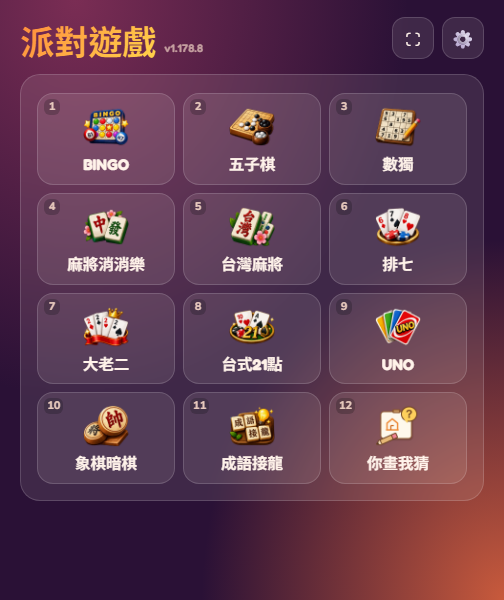
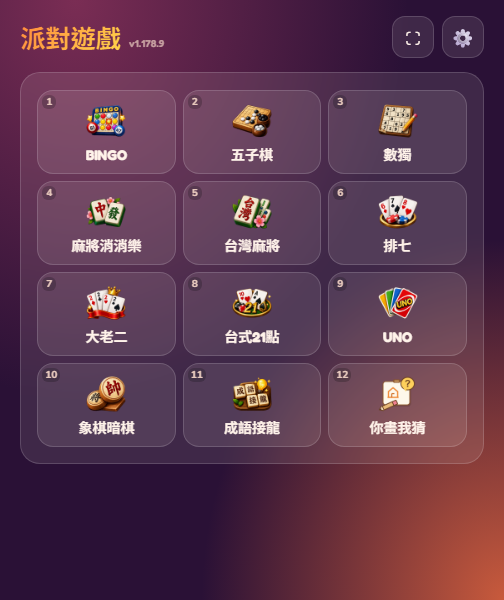
docs(readme): 補上十二款遊戲的實機畫面(單機開局後截)
· 截圖牆取代圖示牆:一格一張真實遊戲畫面 + 玩法對照表
· 首頁 / 設定截圖重截到同一版號,避免並排時版號不一

diff --git a/README.md b/README.md
@@ -18,22 +18,26 @@
 
 <table>
   <tr>
-    <td align="center" width="110"><img src="img/bc-icon.png" width="72" alt="BINGO"><br><b>BINGO</b></td>
-    <td align="center" width="110"><img src="img/gk-icon.png" width="72" alt="五子棋"><br><b>五子棋</b></td>
-    <td align="center" width="110"><img src="img/sk-icon.png" width="72" alt="數獨"><br><b>數獨</b></td>
-    <td align="center" width="110"><img src="img/mk-icon.png" width="72" alt="麻將消消樂"><br><b>麻將消消樂</b></td>
-    <td align="center" width="110"><img src="img/m16-icon.png" width="72" alt="台灣麻將"><br><b>台灣麻將</b></td>
-    <td align="center" width="110"><img src="img/sv-icon.png" width="72" alt="排七"><br><b>排七</b></td>
+    <td align="center" width="25%"><b>🎲 BINGO</b><br><img src="screenshots/bingo.png" width="200" alt="BINGO 盤面:號碼劃記與連線"></td>
+    <td align="center" width="25%"><b>⚫ 五子棋</b><br><img src="screenshots/gomoku.png" width="200" alt="五子棋 19×19 棋盤"></td>
+    <td align="center" width="25%"><b>🔢 數獨</b><br><img src="screenshots/sudoku.png" width="200" alt="數獨 9×9 盤面與數字鍵盤"></td>
+    <td align="center" width="25%"><b>🀄 麻將消消樂</b><br><img src="screenshots/mahjong.png" width="200" alt="麻將消消樂:堆疊的牌陣"></td>
   </tr>
   <tr>
-    <td align="center"><img src="img/b2-icon.png" width="72" alt="大老二"><br><b>大老二</b></td>
-    <td align="center"><img src="img/bj-icon.png" width="72" alt="台式21點"><br><b>台式21點</b></td>
-    <td align="center"><img src="img/un-icon.png" width="72" alt="UNO"><br><b>UNO</b></td>
-    <td align="center"><img src="img/dc-icon.png" width="72" alt="象棋暗棋"><br><b>象棋暗棋</b></td>
-    <td align="center"><img src="img/cy-icon.png" width="72" alt="成語接龍"><br><b>成語接龍</b></td>
-    <td align="center"><img src="img/dw-icon.png" width="72" alt="你畫我猜"><br><b>你畫我猜</b></td>
+    <td align="center"><b>🀄 台灣麻將</b><br><img src="screenshots/mahjong16.png" width="200" alt="台灣 16 張麻將:手牌與三家對手"></td>
+    <td align="center"><b>♠ 排七</b><br><img src="screenshots/sevens.png" width="200" alt="排七:四門花色往兩邊接牌"></td>
+    <td align="center"><b>♥ 大老二</b><br><img src="screenshots/big2.png" width="200" alt="大老二:牌桌上的葫蘆與手牌"></td>
+    <td align="center"><b>♦ 台式21點</b><br><img src="screenshots/blackjack.png" width="200" alt="台式21點:要牌 / 停 / 抓人"></td>
+  </tr>
+  <tr>
+    <td align="center"><b>🌈 UNO</b><br><img src="screenshots/uno.png" width="200" alt="UNO:四色手牌與功能牌"></td>
+    <td align="center"><b>🔴 象棋暗棋</b><br><img src="screenshots/darkchess.png" width="200" alt="象棋暗棋:32 顆蓋著擺滿 4×8"></td>
+    <td align="center"><b>🧩 成語接龍</b><br><img src="screenshots/chengyu.png" width="200" alt="成語接龍:交叉填字盤與待填的字"></td>
+    <td align="center"><b>🎨 你畫我猜</b><br><img src="screenshots/draw.png" width="200" alt="你畫我猜:建立房間 / 加入朋友的房間"></td>
   </tr>
 </table>
+
+每一款的玩法、可以幾個人一起玩、以及一個人能不能玩：
 
 | 遊戲 | 玩法一句話 | 連線人數 | 一個人玩 |
 | --- | --- | :---: | --- |
